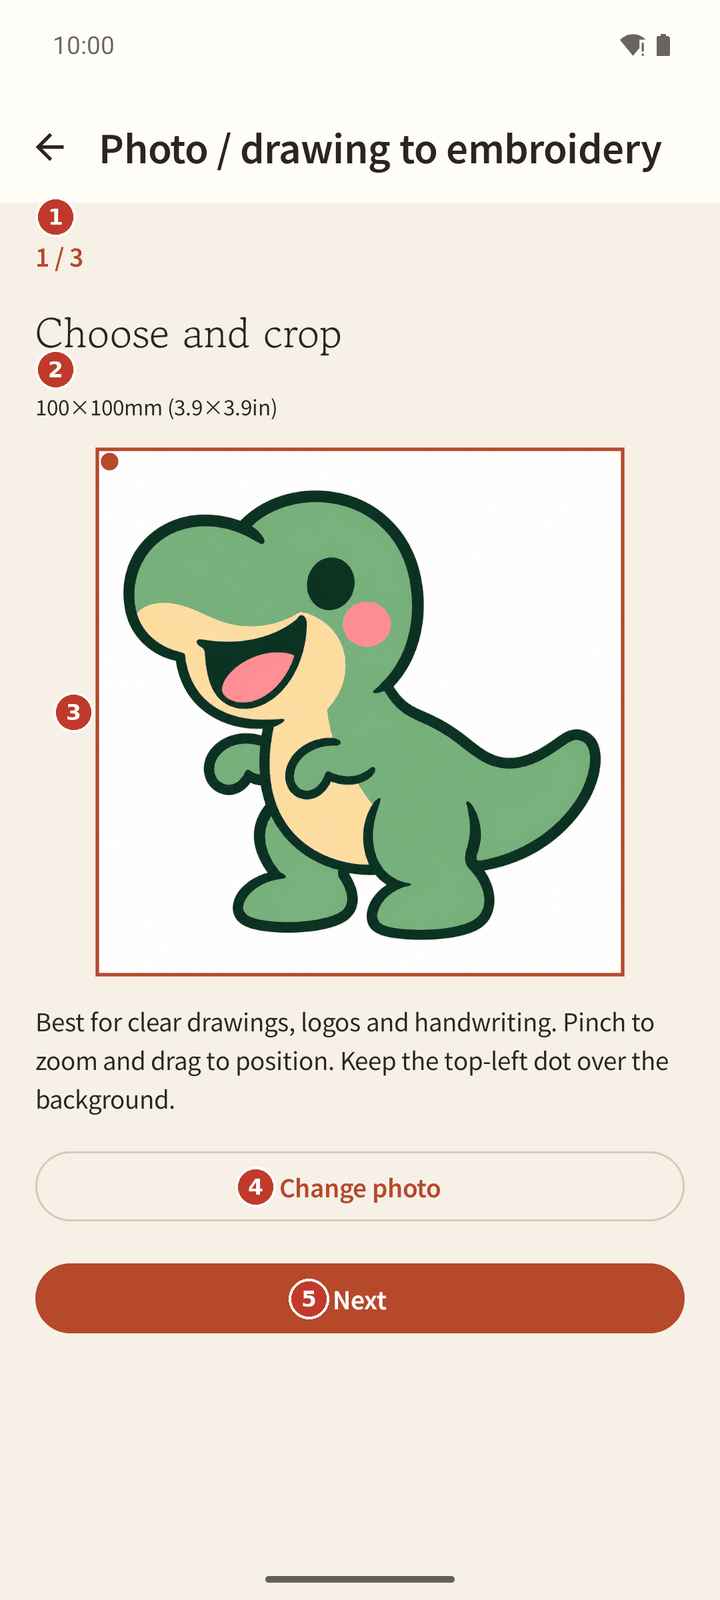
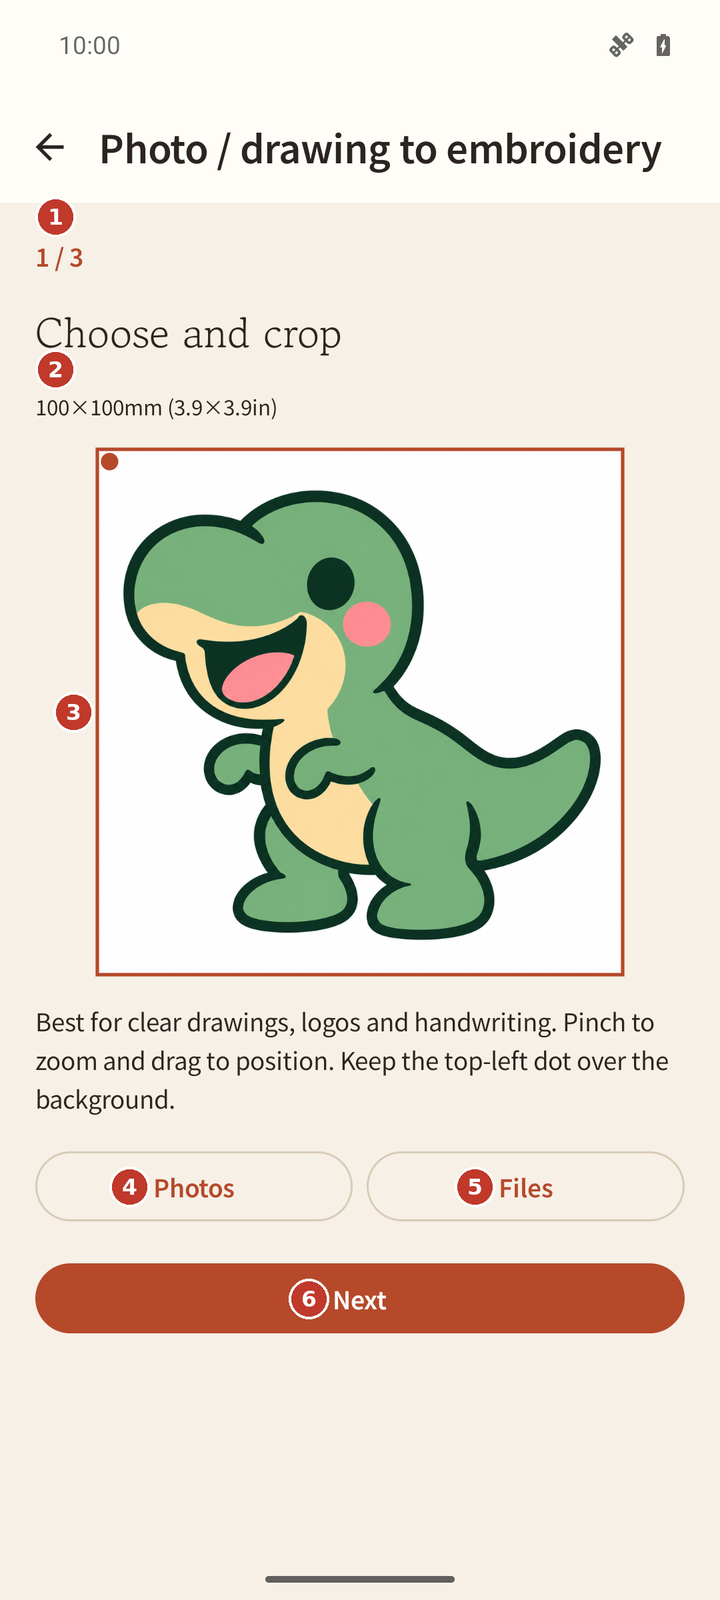
Photo screen: system photo picker button next to the file picker
Step 1 now has Photos (system photo picker, images only, no permission;
androidx falls back to the file chooser where it is missing) and Files
(the existing document picker, SVG included). Both use the same import
path; nothing is copied or kept. Manual chapter 6 step 1 shots retaken
and renumbered (6 items).

diff --git a/app/src/main/kotlin/io/github/linker2k/myembro/ui/photo/PhotoScreen.kt b/app/src/main/kotlin/io/github/linker2k/myembro/ui/photo/PhotoScreen.kt
@@ -53,11 +53,15 @@ fun PhotoScreen(vm: PhotoViewModel, settings: EmbroiderySettings, onBack: () -> 
     LaunchedEffect(settings) { vm.configure(settings) }
     val back = { if (vm.isSvg) { vm.cancel(); onBack() } else if (vm.step > 0) vm.back() else { vm.cancel(); onBack() } }
     BackHandler(onBack = back)
-    // Android photo picker, images only; androidx activity falls back to its own legacy picker on older devices.
+    // Photos: the system photo picker, images only and no permission; androidx falls back to the file chooser on
+    // devices without it. Files: the document picker with PictureIntake's types, which also lets SVG through.
+    // Both read the picked picture once into memory; nothing is copied or kept.
     val pictureImport=io.github.linker2k.myembro.ui.LocalPictureImport.current
-    val picker = rememberLauncherForActivityResult(ActivityResultContracts.OpenDocument()) { uri -> if(uri!=null) {
+    val picked: (android.net.Uri?) -> Unit = { uri -> if(uri!=null) {
         if(pictureImport!=null) pictureImport(listOf(uri),{}) else { vm.begin();vm.load(uri) }
     } }
+    val photoPicker = rememberLauncherForActivityResult(ActivityResultContracts.PickVisualMedia(), picked)
+    val picker = rememberLauncherForActivityResult(ActivityResultContracts.OpenDocument(), picked)
     val colors = MaterialTheme.colorScheme
     val scroll = rememberScrollState()
     LaunchedEffect(vm.step) { scroll.scrollTo(0) }
@@ -131,8 +135,11 @@ fun PhotoScreen(vm: PhotoViewModel, settings: EmbroiderySettings, onBack: () -> 
                     Box(contentAlignment = Alignment.Center) { Icon(Icons.Default.AddPhotoAlternate, null, Modifier.size(56.dp), tint = colors.primary) }
                 }
                 Text(stringResource(R.string.photo_crop_hint), style = MaterialTheme.typography.bodyMedium)
-                OutlinedButton(onClick = { picker.launch(PictureIntake.pickerMimes) }, enabled = !vm.busy, modifier = Modifier.fillMaxWidth()) {
-                    Text(stringResource(if (vm.source == null) R.string.photo_pick else R.string.photo_pick_again))
+                Row(Modifier.fillMaxWidth(), horizontalArrangement = Arrangement.spacedBy(8.dp)) {
+                    OutlinedButton(onClick = { photoPicker.launch(PickVisualMediaRequest(ActivityResultContracts.PickVisualMedia.ImageOnly)) },
+                        enabled = !vm.busy, modifier = Modifier.weight(1f)) { Text(stringResource(R.string.photo_pick_photos)) }
+                    OutlinedButton(onClick = { picker.launch(PictureIntake.pickerMimes) }, enabled = !vm.busy,
+                        modifier = Modifier.weight(1f)) { Text(stringResource(R.string.photo_pick_file)) }
                 }
             } else {
                 if(vm.step==1) SingleChoiceSegmentedButtonRow(Modifier.fillMaxWidth()) {

diff --git a/app/src/test/kotlin/io/github/linker2k/myembro/ui/photo/PhotoPickerStringsTest.kt b/app/src/test/kotlin/io/github/linker2k/myembro/ui/photo/PhotoPickerStringsTest.kt
@@ -1,0 +1,26 @@
+// SPDX-License-Identifier: GPL-3.0-or-later
+package io.github.linker2k.myembro.ui.photo
+
+import java.io.File
+import javax.xml.parsers.DocumentBuilderFactory
+import kotlin.test.*
+
+class PhotoPickerStringsTest {
+    private fun strings(locale: String): Map<String, String> {
+        val relative = "src/main/res/$locale/strings_photo.xml"
+        val file = listOf(File(relative), File("app/$relative")).first { it.isFile }
+        val nodes = DocumentBuilderFactory.newInstance().newDocumentBuilder().parse(file).getElementsByTagName("string")
+        return (0 until nodes.length).associate { i -> nodes.item(i).attributes.getNamedItem("name").nodeValue to nodes.item(i).textContent }
+    }
+
+    @Test fun `photo screen strings come in English and Korean pairs with short picker labels`() {
+        val en = strings("values")
+        val ko = strings("values-ko")
+        assertEquals(en.keys, ko.keys)
+        assertEquals("Photos", en["photo_pick_photos"])
+        assertEquals("Files", en["photo_pick_file"])
+        assertEquals("사진", ko["photo_pick_photos"])
+        assertEquals("파일", ko["photo_pick_file"])
+        assertFalse("photo_pick_again" in en)
+    }
+}

diff --git a/app/src/androidTest/kotlin/io/github/linker2k/myembro/ui/photo/PictureIntakeInstrumentation.kt b/app/src/androidTest/kotlin/io/github/linker2k/myembro/ui/photo/PictureIntakeInstrumentation.kt
@@ -98,7 +98,7 @@ class PictureIntakeInstrumentation : Instrumentation() {
                 }
                 if(index==0) check(display.endsWith(".svg"))
                 check(resolver.getType(download!!) == mime)
-                click(targetContext.getString(R.string.photo_pick_again))
+                click(targetContext.getString(R.string.photo_pick_file))
                 await("SAF picker") { uiAutomation.rootInActiveWindow?.packageName?.toString()?.contains("documentsui")==true }
                 if(find(display)==null) {
                     if(find("Downloads","다운로드")==null) click("Show roots","루트 표시","탐색 창 표시","탐색 메뉴 열기")

diff --git a/docs/manual/user-guide.ko.md b/docs/manual/user-guide.ko.md
@@ -456,10 +456,11 @@
 | 1 | 단계 | 지금 단계입니다(1/3). |
 | 2 | 후프 크기 | 맞출 후프입니다. |
 | 3 | 자르기 틀 | 두 손가락으로 확대하고 끌어 맞춥니다. |
-| 4 | 다른 사진 | 사진을 다시 고릅니다. |
-| 5 | 다음 | 2단계로 갑니다. |
+| 4 | 사진 | 사진 목록에서 그림을 고릅니다. |
+| 5 | 파일 | SVG를 포함한 그림 파일을 고릅니다. |
+| 6 | 다음 | 2단계로 갑니다. |
 
-1. **사진 고르기**로 그림을 고릅니다.
+1. **사진**이나 **파일**로 그림을 고릅니다.
 2. 틀 안에 원하는 부분을 맞춥니다. 그림을 줄여 전체가 보이게 해도 됩니다.
 3. **다음**을 누릅니다.
 

diff --git a/docs/manual/user-guide.md b/docs/manual/user-guide.md
@@ -456,10 +456,11 @@ There are three steps: crop, mode and result. Sharing a picture to myembro from 
 | 1 | Step | The current step (1/3). |
 | 2 | Hoop size | The hoop to fit. |
 | 3 | Crop frame | Pinch to zoom and drag to position. |
-| 4 | Change photo | Choose a different picture. |
-| 5 | Next | Goes to step 2. |
+| 4 | Photos | Pick a picture from your photos. |
+| 5 | Files | Pick a picture file, including SVG. |
+| 6 | Next | Goes to step 2. |
 
-1. Tap **Choose photo** and pick a picture.
+1. Tap **Photos** or **Files** and pick a picture.
 2. Fit the part you want inside the frame. You can zoom out so the whole picture shows.
 3. Tap **Next**.
 
